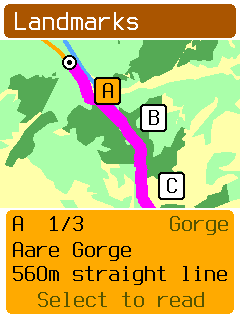
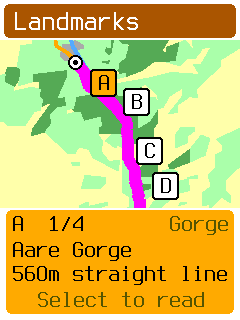
docs: show large landmark photos and record device controls

Changed region(s): [[0.0, 0.125, 1.0, 0.7188]]

diff --git a/docs/assets/ride-assistant/landmarks-study/README.md b/docs/assets/ride-assistant/landmarks-study/README.md
@@ -24,9 +24,9 @@ selected landmark. **Down + Back → Sources** opens attribution, the licence UR
 URLs without adding pages to each description. Back restores the reading page. **Visit** opens the shared route preview. **Add stop** accepts the complete
 visit. Reading another place leaves that accepted destination and return route intact.
 
-Known-closed landmarks are excluded. These three examples have unknown hours. Distances on the
+Known-closed landmarks are excluded. These four examples have unknown hours. Distances on the
 nearby card are straight-line distances from the rider. Route costs in the preview come from the
-prepared mock route legs. Three results are a fixture limit, not a production policy.
+prepared mock route legs. Four results are a fixture limit, not a production policy.
 
 ## Text sources and licence
 
@@ -40,6 +40,7 @@ They are shortened and reworded for the device. The application code retains its
 | Aare Gorge | [Aare Gorge, revision 1327206534](https://en.wikipedia.org/w/index.php?title=Aare_Gorge&oldid=1327206534) | Limestone gorge, wall height, glacial meltwater, walkways since 1889. |
 | Reichenbach Falls | [Reichenbach Falls, revision 1362225684](https://en.wikipedia.org/w/index.php?title=Reichenbach_Falls&oldid=1362225684) | Upper fall height and the fictional events in Conan Doyle's 1893 story. |
 | Gelmerbahn | [Gelmer Funicular, revision 1322069534](https://en.wikipedia.org/w/index.php?title=Gelmer_Funicular&oldid=1322069534) | Railway to Gelmersee, 106 percent maximum gradient, 1926 construction, public opening in 2001. |
+| Dunlough Castle | [Dunlough Castle, revision 1322295338](https://en.wikipedia.org/w/index.php?title=Dunlough_Castle&oldid=1322295338) | Three towers, lake and cliff setting, defensive wall, foundation in 1207. |
 
 ## Photos
 
@@ -47,9 +48,10 @@ They are shortened and reworded for the device. The application code retains its
 | --- | --- | --- | --- |
 | ![Aare Gorge photo](aare-photo.png) | ![Reichenbach Falls photo](falls-photo.png) | ![Photo credit](photo-credit.png) | ![Photo source URL](photo-source.png) |
 
-Each description has two text pages. Aare Gorge and Reichenbach Falls add a third page with a
-160 × 120 ordered-dither photo. Up from the first page opens the photo. The source drawer
-includes each photo's credit, source URL, and licence URL. The three examples have 11 source
+Each description has two text pages. Aare Gorge, Reichenbach Falls, and Dunlough Castle add
+160 × 120 and 216 × 240 ordered-dither photo pages. Up from the first page opens the larger
+photo; Up again opens the smaller photo. The source drawer
+includes each photo's credit, source URL, and licence URL. The four examples have 15 source
 pages in total. Gelmerbahn has no photo. It remains a UI fixture, not a proposed production
 category: the [selection proposal](../landmark-selection/README.md) excludes industrial and
 transport landmarks.
@@ -58,6 +60,18 @@ The [photo study](../landmark-photos/README.md) gives attribution, processing co
 storage measurements. Fixed RGB222 assets provide the same pixels to the simulator and the
 [display-only board demo](../../../../firmware/obc-fw-nrf54l/README.md#landmark-photo-demo).
 No JPEG decoder or landmark map format was added.
+
+## Dunlough Castle and larger photos
+
+| What it is | History | Large photo |
+| --- | --- | --- |
+| ![Castle description](dunlough.png) | ![Castle history](dunlough-facts.png) | ![Large castle photo](dunlough-photo-large.png) |
+
+Dunlough Castle is a fourth synthetic-location fixture. Its article and photograph describe
+the real Irish castle, but its map position and route legs are placed in the Swiss study map.
+The [size comparison](../landmark-photos/README.md#size-comparison-on-the-device) shows both
+sizes for all three photographed landmarks. Visit uses the same detour preview from either
+photo page. Large photo pages use the full area between the header and Visit action.
 
 ## Verification
 
@@ -75,9 +89,11 @@ cargo fmt --manifest-path apps/obc-desktop/Cargo.toml
 git diff --check
 ```
 
-The focused app and simulator suites and Clippy passed. Eleven named frames check the four
-changed text pages, both photos, and source pages. Both photo rectangles match the selected
-ordered-dither reference PNGs pixel for pixel. These are targeted captures, not a full UI sweep.
+The focused app and simulator suites and Clippy passed. Nineteen named frames cover the
+nearby map, changed text pages, six photo pages, and source pages. All six photo rectangles
+match their ordered-dither reference PNGs pixel for pixel. The screen-size assertion still
+passes with four landmarks; the view stores indexes and computes distance when needed.
+These are targeted captures, not a full UI sweep.
 
 The board command, run from `firmware/obc-fw-nrf54l`, was:
 
@@ -85,10 +101,9 @@ The board command, run from `firmware/obc-fw-nrf54l`, was:
 cargo run --release --bin display_test --features landmark-photo-demo
 ```
 
-Verified programming succeeded on nRF54LM20A. RTT reported display startup and button-driven
-changes between both photos. The user can assess physical panel appearance. The demo does not
+Verified programming succeeded on nRF54LM20A. RTT reported display startup with the larger Aare Gorge photo. The user can assess physical panel appearance. The demo does not
 exercise SD, navigation, GPS, or BLE. The source ELF SHA-256 is
[2 lines of base64/hex data omitted]
 
 The affected dry run includes unrelated changes from this branch's older base. The full
 workspace gate and affected plan were deliberately omitted. No resource gate, full UI sweep,
@@ -101,7 +116,7 @@ external-fixture suite, or normal-application hardware suite was run.
 | ![Sources action in the bottom drawer](sources-drawer.png) | ![Licence URL](licence.png) | ![Article URL](article-source.png) |
 
 The descriptions have two text pages. Attribution remains accessible from the nearby map and
-reading pages. The source view lists all three study articles. This uses the existing drawer,
+reading pages. The source view lists all four study articles. This uses the existing drawer,
 and does not create another button combination. The source action and Back leave navigation
 and recording unchanged. The relevant guidance is
 [CC BY-SA 4.0 section 3(a)(2)](https://creativecommons.org/licenses/by-sa/4.0/legalcode.en#s3a)

diff --git a/docs/assets/ride-assistant/landmark-photos/README.md b/docs/assets/ride-assistant/landmark-photos/README.md
@@ -1,9 +1,10 @@
 # Landmark photo study
 
-The small ordered-dither samples are now included in the simulator and a display-only board
-demo. Both use the same RGB222 pixel assets. The other versions are comparison samples.
+The small and large ordered-dither samples are included in the simulator and a display-only
+board demo. Dunlough Castle adds a third subject for the size comparison. Both use the same RGB222 pixel assets. The other versions are comparison samples.
 The photos are the
-lead images returned by Wikipedia's pageimages API for Aare Gorge and Reichenbach Falls.
+lead images returned by Wikipedia's pageimages API for Aare Gorge, Reichenbach Falls, and
+Dunlough Castle.
 The source records are in [sources.json](sources.json).
 
 ## Small image: 160 × 120 pixel box
@@ -127,3 +128,30 @@ Allow separately for attribution, file indexes, and duplicates. No exact average
 density is claimed before selection and deduplication. An optional country image pack looks
 feasible in storage terms; selection quality, licensing metadata, and physical display quality
 need to be tested before deciding to ship it.
+
+## Size comparison on the device
+
+The board demo starts at 216 × 240. Select switches to 160 × 120 and back. Up/Down changes
+between Aare Gorge, Reichenbach Falls, and Dunlough Castle while keeping the chosen size.
+Back opens the image credits; Select cycles source and licence pages, and Back closes them.
+The larger image uses the full space between the header and bottom action.
+
+| Place | 160 × 120 | 216 × 240 |
+| --- | --- | --- |
+| Aare Gorge | ![Small gorge](../landmarks-study/aare-photo.png) | ![Large gorge](../landmarks-study/aare-photo-large.png) |
+| Reichenbach Falls | ![Small waterfall](../landmarks-study/falls-photo.png) | ![Large waterfall](../landmarks-study/falls-photo-large.png) |
+| Dunlough Castle | ![Small castle](../landmarks-study/dunlough-photo.png) | ![Large castle](../landmarks-study/dunlough-photo-large.png) |
+
+These are native 240 × 320 simulator captures, not enlarged images. No crop is applied.
+The waterfall fills about 80 × 120 pixels in the small box and 160 × 240 in the larger box.
+The landscape photographs benefit less: their width rises from 160 to 216 pixels. The larger
+asset has 2.7 times as many pixels, including white margins: 51,840 bytes rather than 19,200.
+This comparison includes both sizes; a production pack can choose one.
+
+Dunlough uses Wikipedia's lead photograph, *2019-07-30-Dunlough Castle-0819*, by
+Superbass / Wikimedia Commons.
+[Original and attribution](https://commons.wikimedia.org/wiki/File:2019-07-30-Dunlough_Castle-0819.jpg),
+[CC BY-SA 4.0](https://creativecommons.org/licenses/by-sa/4.0/).
+It is resized, padded, and ordered dithered using the same commands as the other photographs.
+Both adaptations retain CC BY-SA 4.0. The Locationscout link identifies the requested place;
+the demo photograph comes from Wikimedia Commons. Metadata is in sources.json.

diff --git a/apps/obc-sim/README.md b/apps/obc-sim/README.md
@@ -160,26 +160,27 @@ categories are grey placeholders.
 ### Landmarks study
 
 Select **Landmarks** in Ride Assistant, or start with `--assistant-stage landmarks`.
-Up/Down selects one of three nearby landmarks. All markers remain on the map. The selected
+Up/Down selects one of four nearby landmarks. All markers remain on the map. The selected
 card shows the name, kind, and straight-line distance from the rider. Select opens the text.
 Up/Down changes the page; Back restores the selected marker. **Visit** opens the same
 preview as Find a place, with route distance, climbing, and the extra cost including return.
 **Add stop** accepts that visit. Reading another place does not change the accepted route.
 
-Aare Gorge, Reichenbach Falls, and the Gelmerbahn have short text adapted from Wikipedia.
+Aare Gorge, Reichenbach Falls, Gelmerbahn, and Dunlough Castle have short text adapted from Wikipedia.
 Down + Back opens the bottom drawer. **Sources** opens the text attribution, licence URL, and
 article URLs for the study, plus each photo's credit, source, and licence. Back restores the
-reading page and selection. Aare Gorge and Reichenbach Falls have a third page with a
-160 × 120 ordered-dither photo. Up from the first text page opens the photo directly. See the
+reading page and selection. Aare Gorge, Reichenbach Falls, and Dunlough Castle have two
+photo pages: 160 × 120 and 216 × 240, with ordered dithering. Up from the first text page
+opens the larger photo; Up again opens the smaller one. See the
 [captures and article attribution](../../docs/assets/ride-assistant/landmarks-study/README.md).
 The article facts are real, but landmark positions and access paths are synthetic. They fit
-inside the loaded map and do not describe actual access to those landmarks. All three have
+inside the loaded map and do not describe actual access to those landmarks. All four have
 unknown opening hours. Known-closed landmarks are excluded; places with unknown hours remain
 in the results.
 
-This study has three results. It does not define the production result limit, search radius,
+This study has four results. It does not define the production result limit, search radius,
 or ranking policy. Text is curated to fit two readable pages. There is no Wikipedia fetch,
-landmark map format, JPEG decoder, or live route calculation in the device prototype. The two
+landmark map format, JPEG decoder, or live route calculation in the device prototype. The
 photos use fixed RGB222 assets shared with the [board photo demo](../../firmware/obc-fw-nrf54l/README.md#landmark-photo-demo).
 
 ### What's next study

diff --git a/docs/content/software/ride-assistant-study.md b/docs/content/software/ride-assistant-study.md
@@ -49,8 +49,8 @@ a name, a kind, and straight-line distance. Keep the map stable while the rider 
 selection. Show short text that explains what the landmark is and why it is interesting.
 Give longer text its own pages. Do not shrink it to fit beside the map.
 
-The simulator uses three examples with text adapted from Wikipedia: Aare Gorge, Reichenbach
-Falls, and the Gelmerbahn. Each has two short text pages. **Down + Back → Sources** opens attribution, the licence URL,
+The simulator uses four examples with text adapted from Wikipedia: Aare Gorge, Reichenbach
+Falls, Gelmerbahn, and Dunlough Castle. Each has two short text pages. **Down + Back → Sources** opens attribution, the licence URL,
 and the article URLs. Back restores the reading page. The locations and
 access routes are fictional. The [study captures and attribution](../../assets/ride-assistant/landmarks-study/README.md)
 identify the article revisions and licence.
@@ -59,11 +59,11 @@ identify the article revisions and licence.
 the preview supplies the prepared route cost. **Add stop** accepts the outbound and return legs
 together. Browsing another place must not change this accepted visit or interrupt recording.
 
-Aare Gorge and Reichenbach Falls have a third page with a small ordered-dither photo.
-Up from the first text page opens the photo. Photo credits, source URLs, and licence URLs
+Aare Gorge, Reichenbach Falls, and Dunlough Castle each have small and large ordered-dither
+photo pages. Up from the first text page opens the large photo; Up again opens the small one. Photo credits, source URLs, and licence URLs
 are in **Sources**. The [photo study](../../assets/ride-assistant/landmark-photos/README.md)
 compares rendering methods and storage cost. The simulator and a display-only board demo
-use the same 160 × 120 RGB222 pixels. The device does not need a JPEG decoder.
+use the same 160 × 120 and 216 × 240 RGB222 assets. The device does not need a JPEG decoder.
 The current assets are fixed examples. Map creation, image selection, and storage remain
 future work. The [category proposal](../../assets/ride-assistant/landmark-selection/README.md)
 defines a provisional scope for review.

diff --git a/firmware/obc-fw-nrf54l/README.md b/firmware/obc-fw-nrf54l/README.md
@@ -995,8 +995,8 @@ terrain indices and alignment. Simulator fixture packages are separate acceptanc
 
 ## Landmark photo demo
 
-This display-only demo shows Aare Gorge and Reichenbach Falls with the same 160 × 120
-ordered-dither RGB222 assets as the simulator. It uses the production framebuffer and FLPR
+This display-only demo shows Aare Gorge, Reichenbach Falls, and Dunlough Castle.
+It shares the simulator's 160 × 120 and 216 × 240 ordered-dither RGB222 assets. It uses the production framebuffer and FLPR
 presenter. It does not initialize or write the SD card. GPS, navigation, and BLE are not part
 of this demo. It replaces the application image until normal firmware is flashed again.
 
@@ -1007,8 +1007,10 @@ cargo run --release --bin display_test --features landmark-photo-demo
 ```
 
 This command uses the shared board runner and verified single-buffer programming described
-above. Up or Down changes the photo. Select cycles through photo credit, source URL, licence
-URL, and the photo. Back returns to the photo. These buttons use the normal board pins.
+above. It starts with the larger photo. Up or Down changes the place and keeps the selected
+size. Select switches between small and large. Back opens the credits; Select then cycles
+through the source URL, licence URL, and photo. Back closes the credits. These buttons use
+the normal board pins.
 The COM task continues while the image is stationary.
 
 To restore this checkout's normal application, stop the demo's RTT session and run:
